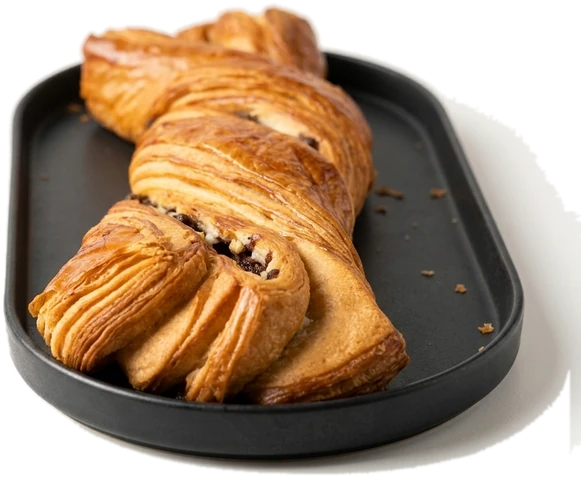
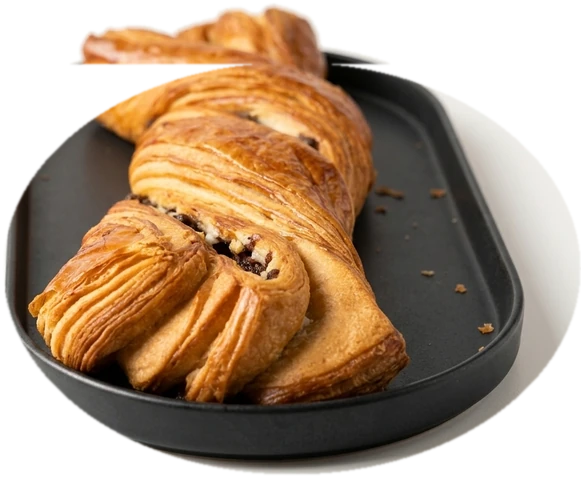
Fix snack plate seating and cutout edges

diff --git a/src/components/FadeInImage.tsx b/src/components/FadeInImage.tsx
@@ -120,10 +120,10 @@ const CUTOUT_DIMENSIONS: Record<string, { width: number; height: number }> = {
   'tea.webp': { width: 523, height: 540 },
   'saffron-tea.webp': { width: 534, height: 540 },
   'eyvan_cortado.webp': { width: 798, height: 540 },
-  'eyvan_croissant.webp': { width: 625, height: 378 },
+  'eyvan_croissant.webp': { width: 624, height: 377 },
   'eyvan_chocolate_twist.webp': { width: 581, height: 477 },
-  'eyvan_chocolate_cheesecake.webp': { width: 616, height: 410 },
-  'eyvan_cake_of_day.webp': { width: 563, height: 540 },
+  'eyvan_chocolate_cheesecake.webp': { width: 615, height: 400 },
+  'eyvan_cake_of_day.webp': { width: 565, height: 540 },
   'eyvan_cappuccino.webp': { width: 714, height: 540 },
   'eyvan_mocha.webp': { width: 721, height: 540 },
   'eyvan_hot_mocha.webp': { width: 708, height: 540 },
@@ -180,10 +180,10 @@ const CUTOUT_FOOT_ASPECT: Record<string, number> = {
   'tea.webp': 0.61,
   'saffron-tea.webp': 0.62,
   'eyvan_cortado.webp': 0.6,
-  'eyvan_croissant.webp': 0.96,
-  'eyvan_chocolate_twist.webp': 1.01,
-  'eyvan_chocolate_cheesecake.webp': 1.0,
-  'eyvan_cake_of_day.webp': 0.84,
+  'eyvan_croissant.webp': 1.0,
+  'eyvan_chocolate_twist.webp': 0.69,
+  'eyvan_chocolate_cheesecake.webp': 0.91,
+  'eyvan_cake_of_day.webp': 0.82,
   'eyvan_cappuccino.webp': 0.5,
   'eyvan_mocha.webp': 0.48,
   'eyvan_hot_mocha.webp': 0.52,

diff --git a/src/components/RotaryTableStage.tsx b/src/components/RotaryTableStage.tsx
@@ -867,7 +867,7 @@ export const RotaryTableStage = memo(function RotaryTableStage({
               const shiftPct = isCup ? -45.5 : -50;
               const yOff =
                 item.categoryId === 'cat-d3a8c60cb86d1f5e'
-                  ? -Math.round(btnEl.offsetHeight * 0.3)
+                  ? -Math.round(btnEl.offsetHeight * 0.3 * sy)
                   : isCup
                     ? 9
                     : 6;
